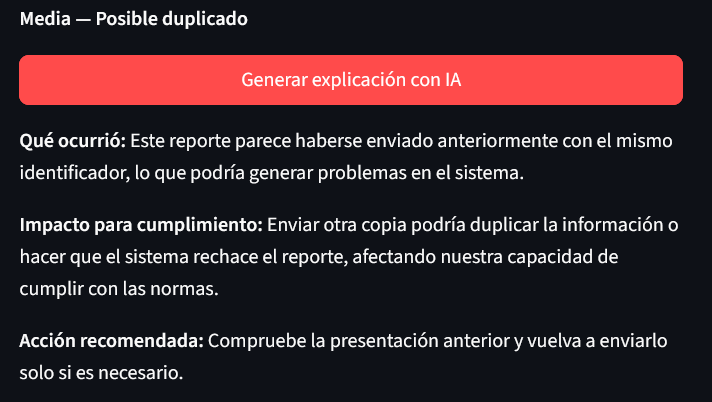
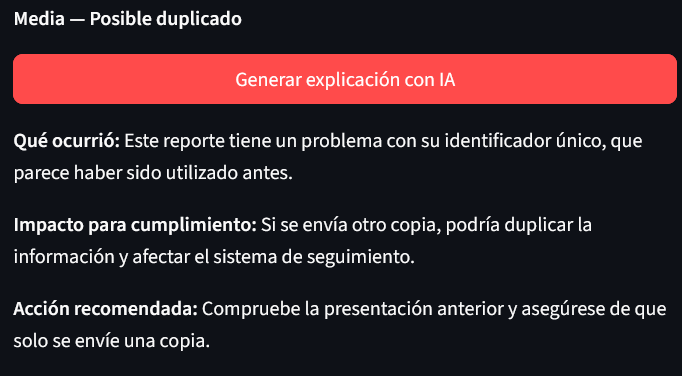
Actualizacion del README

diff --git a/README.md b/README.md
@@ -26,6 +26,8 @@ Dashboard en Streamlit que analiza logs técnicos de reportes CRC y los conviert
 
 ## Flujo del sistema
 
+<img src="assets/readme/flowchart.png" alt="Flowchart del sistema" width="900">
+
 | Paso | Archivo | Resultado |
 |---:|---|---|
 | 1 | `generate_dataset.py` | Genera 100 registros CRC sintéticos. |
@@ -44,7 +46,10 @@ Dashboard en Streamlit que analiza logs técnicos de reportes CRC y los conviert
 | Tabla de registros | <img src="assets/readme/tabla-registros.png" alt="Tabla de registros" width="520"> |
 | Incidencias frecuentes | <img src="assets/readme/incidencias-frecuentes.png" alt="Incidencias frecuentes" width="520"> |
 | Inspector de entrada | <img src="assets/readme/inspector.png" alt="Inspector" width="520"> |
+| Contexto RAG recuperado | <img src="assets/readme/contexto-rag.png" alt="Contexto RAG" width="520"> |
 | Explicación generada | <img src="assets/readme/explicacion-ia.png" alt="Explicación IA" width="520"> |
+| Exportación | <img src="assets/readme/exportacion.png" alt="Exportación de resultados" width="520"> |
+| Resumen Markdown | <img src="assets/readme/resumen-markdown.png" alt="Resumen ejecutivo Markdown" width="520"> |
 
 ## Técnicas de IA
 